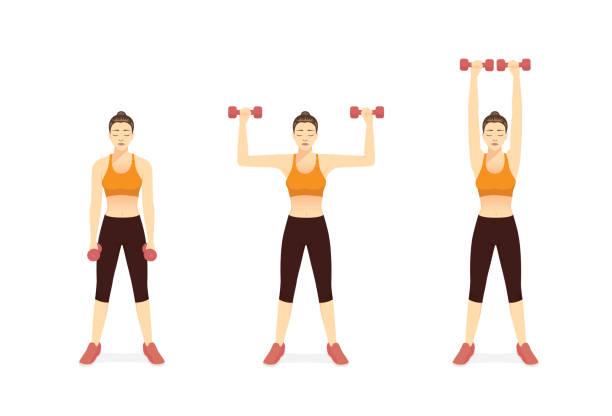
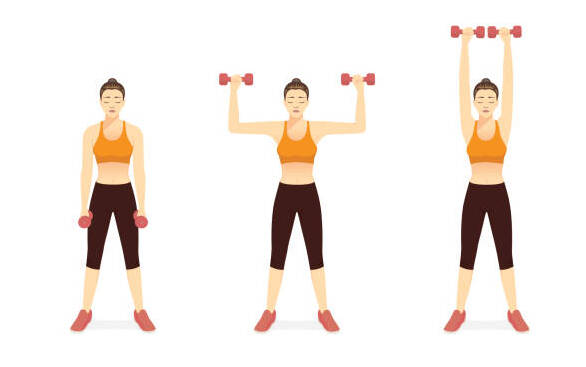
changed pictures

Changed region(s): [[0.7372, 0.0599, 0.9215, 0.9292], [0.3686, 0.1798, 0.6451, 0.9292], [0.1229, 0.2098, 0.2765, 0.9292]]

diff --git a/html/index.html(Mainpage)/index.html b/html/index.html(Mainpage)/index.html
@@ -37,16 +37,16 @@
                   <div id="carouselExampleControls" class="carousel slide" data-bs-ride="carousel">
                     <div class="carousel-inner">
                       <div class="carousel-item active picture">
-                        <img src="./pictures/sport.jpg" class="d-block w-100" alt="Woman, doing a sport exercise">
+                        <img src="./pictures/hipAbduction.jpg" class="d-block w-100" alt="Woman, doing hip abduction">
                       </div>
                       <div class="carousel-item pictureShort">
-                        <img src="./pictures/sport1.jpg" class="d-block w-100" alt="Woman, doing a sport exercise">
+                        <img src="./pictures/russianTwists.jpg" class="d-block w-100" alt="Woman, doing russian twists">
                       </div>
                       <div class="carousel-item picture">
-                        <img src="./pictures/sport2.jpg" class="d-block w-100" alt="Woman, doing a sport exercise">
+                        <img src="./pictures/dumbellShoulderPress.jpg" class="d-block w-100" alt="Woman, doing dumbell shoulder press">
                       </div>
                       <div class="carousel-item picture">
-                        <img src="./pictures/sport3.jpg" class="d-block w-100" alt="Woman, doing a sport exercise">
+                        <img src="./pictures/HipFlexor.jpg" class="d-block w-100" alt="Woman, doing hip flexors">
                       </div>
                     </div>
                   </div>
